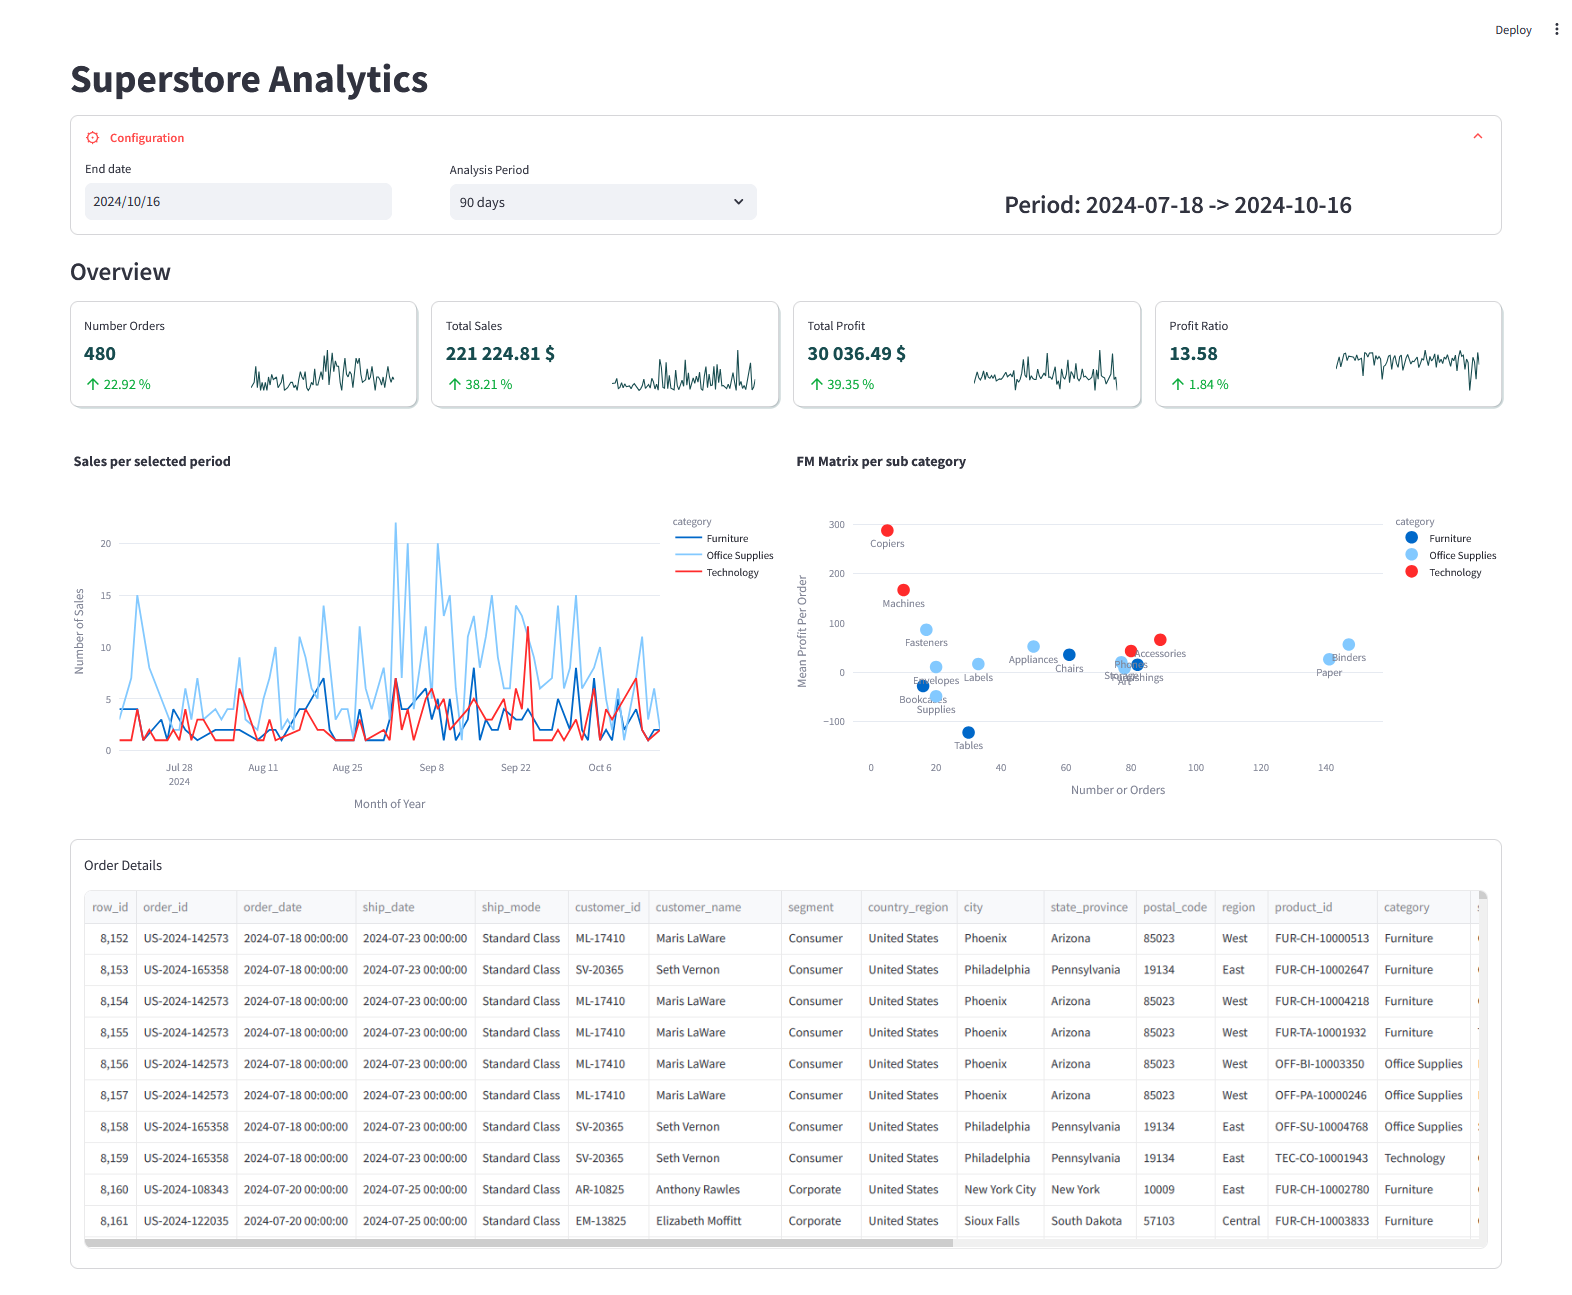
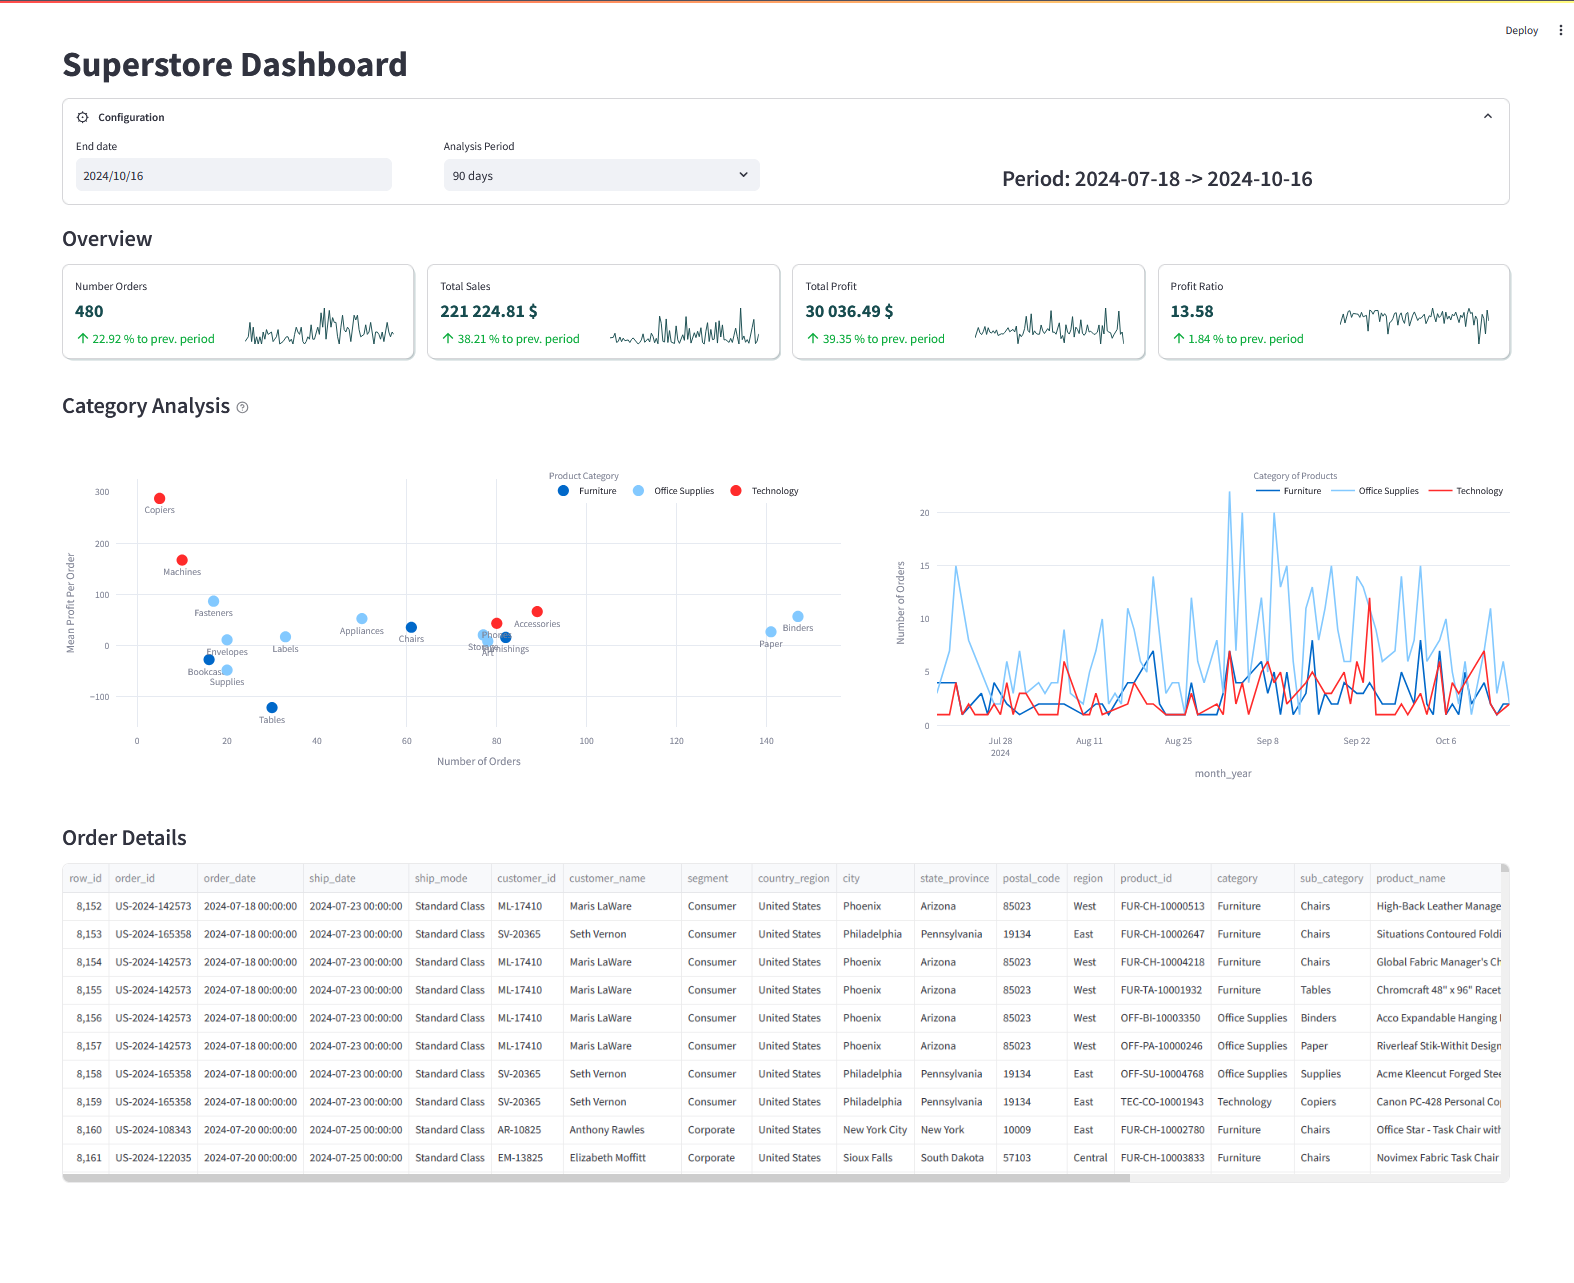
Plot renaming

diff --git a/streamlit_app.py b/streamlit_app.py
@@ -5,25 +5,25 @@ from sqlalchemy import func
 
 from src.models import Superstore
 from src.plots import plot_fm_scatter
-from src.plots import plot_sales_detail
+from src.plots import plot_sales_per_subcategory
 from src.plots import plot_sparkline
 from src.queries import aggregate_per_column
 from src.queries import compute_delta
 from src.queries import detail_per_column
 from src.queries import get_fm_scatter
 from src.queries import get_order_details
-from src.queries import get_sales_detail
+from src.queries import get_sales_per_subcategory
 
-st.set_page_config(page_icon="📈", page_title="Sales Dashboard", layout="wide")
+st.set_page_config(page_icon="📈", page_title="Superstore Dashboard", layout="wide")
 
 # Parameters defined in .streamlit/secrets.toml
-conn = st.connection(
+pg_connection = st.connection(
     "local_postgres",
     type="sql",
 )
 
 
-st.title("Superstore Analytics")
+st.title("Superstore Dashboard")
 
 
 ################################################
@@ -80,7 +80,7 @@ profit_ratio_previous_period = 100 * profit_previous_period / sales_previous_per
 
 ### Build Row
 
-st.subheader("Overview")
+st.subheader("Overview", anchor=False)
 
 cards_row = st.container(key="cards_row")
 
@@ -131,7 +131,7 @@ for (label, value, previous_value, query, aggregate_func, format_str), column in
             st.metric(
                 label=label,
                 value=format_str(value) if isinstance(value, float) else value,
-                delta=f"{compute_delta(value, previous_value):.2f} %",
+                delta=f"{compute_delta(value, previous_value):.2f} % to prev. period",
             )
         with card[1]:
             data = detail_per_column(
@@ -152,27 +152,36 @@ for (label, value, previous_value, query, aggregate_func, format_str), column in
 
 ## Precompute data
 
-data_sales_detail = get_sales_detail(pg_connection, selected_day, selected_period)
 data_fm_scatter = get_fm_scatter(pg_connection, selected_day, selected_period)
+data_sales_per_subcategory = get_sales_per_subcategory(
+    pg_connection, selected_day, selected_period
+)
 
 ### Build Row
 
-chart_row = st.columns(2)
+st.write("\n")
+st.subheader(
+    "Category Analysis",
+    anchor=False,
+)
+
+chart_row = st.columns((1.25, 1), gap="large")
 
 with chart_row[0]:
-    fig_sales_detail = plot_sales_detail(data_sales_detail)
-    st.plotly_chart(
-        fig_sales_detail,
-        use_container_width=True,
-        key="sales_detail",
-    )
-
-with chart_row[1]:
     fig_fm_scatter = plot_fm_scatter(data_fm_scatter)
     st.plotly_chart(
         fig_fm_scatter,
         use_container_width=True,
         key="fm_scatter",
+    )
+
+
+with chart_row[1]:
+    fig_sales_detail = plot_sales_per_subcategory(data_sales_per_subcategory)
+    st.plotly_chart(
+        fig_sales_detail,
+        use_container_width=True,
+        key="sales_subcat",
     )
 
 
@@ -186,13 +195,15 @@ data_orders = get_order_details(pg_connection, selected_day, selected_period)
 
 ### Build Row
 
-with st.container(border=True):
-    st.markdown("Order Details")
-    st.dataframe(
-        data_orders,
-        hide_index=True,
-        key="order_details",
-    )
+st.write("\n")
+st.subheader("Order Details", anchor=False)
+
+st.dataframe(
+    data_orders,
+    hide_index=True,
+    use_container_width=True,
+    key="order_details",
+)
 
 
 ################################################

diff --git a/src/queries.py b/src/queries.py
@@ -104,32 +104,6 @@ def compute_delta(metric, metric_previous_period):
 
 
 @st.cache_data(ttl=timedelta(minutes=5))
-def get_sales_detail(
-    _st_connection: SQLConnection,
-    selected_day,
-    selected_period,
-):
-    with _st_connection.connect() as sql_connection:
-        df = pd.read_sql_query(
-            select(
-                Superstore.category,
-                Superstore.order_date.label("month_year"),
-                func.count(Superstore.order_id).label("number_of_sales"),
-            )
-            .where(
-                Superstore.order_date.between(
-                    selected_day - timedelta(days=selected_period), selected_day
-                )
-            )
-            .group_by(Superstore.order_date, Superstore.category)
-            .order_by(Superstore.order_date),
-            sql_connection,
-        )
-
-    return df
-
-
-@st.cache_data(ttl=timedelta(minutes=5))
 def get_fm_scatter(
     _st_connection: SQLConnection,
     selected_day,
@@ -149,6 +123,32 @@ def get_fm_scatter(
                 )
             )
             .group_by(Superstore.category, Superstore.sub_category),
+            sql_connection,
+        )
+
+    return df
+
+
+@st.cache_data(ttl=timedelta(minutes=5))
+def get_sales_per_subcategory(
+    _st_connection: SQLConnection,
+    selected_day,
+    selected_period,
+):
+    with _st_connection.connect() as sql_connection:
+        df = pd.read_sql_query(
+            select(
+                Superstore.category,
+                Superstore.order_date.label("month_year"),
+                func.count(Superstore.order_id).label("number_of_orders"),
+            )
+            .where(
+                Superstore.order_date.between(
+                    selected_day - timedelta(days=selected_period), selected_day
+                )
+            )
+            .group_by(Superstore.order_date, Superstore.category)
+            .order_by(Superstore.order_date),
             sql_connection,
         )
 

diff --git a/src/plots.py b/src/plots.py
@@ -27,21 +27,6 @@ def plot_sparkline(data):
     return fig
 
 
-def plot_sales_detail(data):
-    fig = px.line(
-        data,
-        x="month_year",
-        y="number_of_sales",
-        color="category",
-        category_orders={
-            "category": ALL_CATEGORIES,
-        },
-        title=f"Sales per selected period",
-        labels={"month_year": "Month of Year", "number_of_sales": "Number of Sales"},
-    )
-    return fig
-
-
 def plot_fm_scatter(data):
     fig = px.scatter(
         data,
@@ -53,10 +38,48 @@ def plot_fm_scatter(data):
         category_orders={
             "category": ALL_CATEGORIES,
         },
-        title=f"FM Matrix per sub category",
         labels={
-            "number_orders": "Number or Orders",
+            "number_orders": "Number of Orders",
             "mean_profit_per_order": "Mean Profit Per Order",
+            "category": "Product Category",
         },
-    ).update_traces(textposition="bottom center", marker=dict(size=14))
+    )
+    fig.update_traces(textposition="bottom center", marker=dict(size=14))
+    fig.update_xaxes(showgrid=True)
+    fig.update_layout(
+        legend=dict(
+            orientation="h",
+            xanchor="right",
+            x=0.95,
+            yanchor="top",
+            y=1.05,
+        )
+    )
+    return fig
+
+
+def plot_sales_per_subcategory(data):
+    fig = px.line(
+        data,
+        x="month_year",
+        y="number_of_orders",
+        color="category",
+        category_orders={
+            "category": ALL_CATEGORIES,
+        },
+        labels={
+            "month_year": "",
+            "number_of_orders": "Number of Orders",
+        },
+    )
+    fig.update_xaxes()
+    fig.update_layout(
+        legend=dict(
+            orientation="h",
+            xanchor="right",
+            x=1,
+            yanchor="top",
+            y=1.05,
+        )
+    )
     return fig
